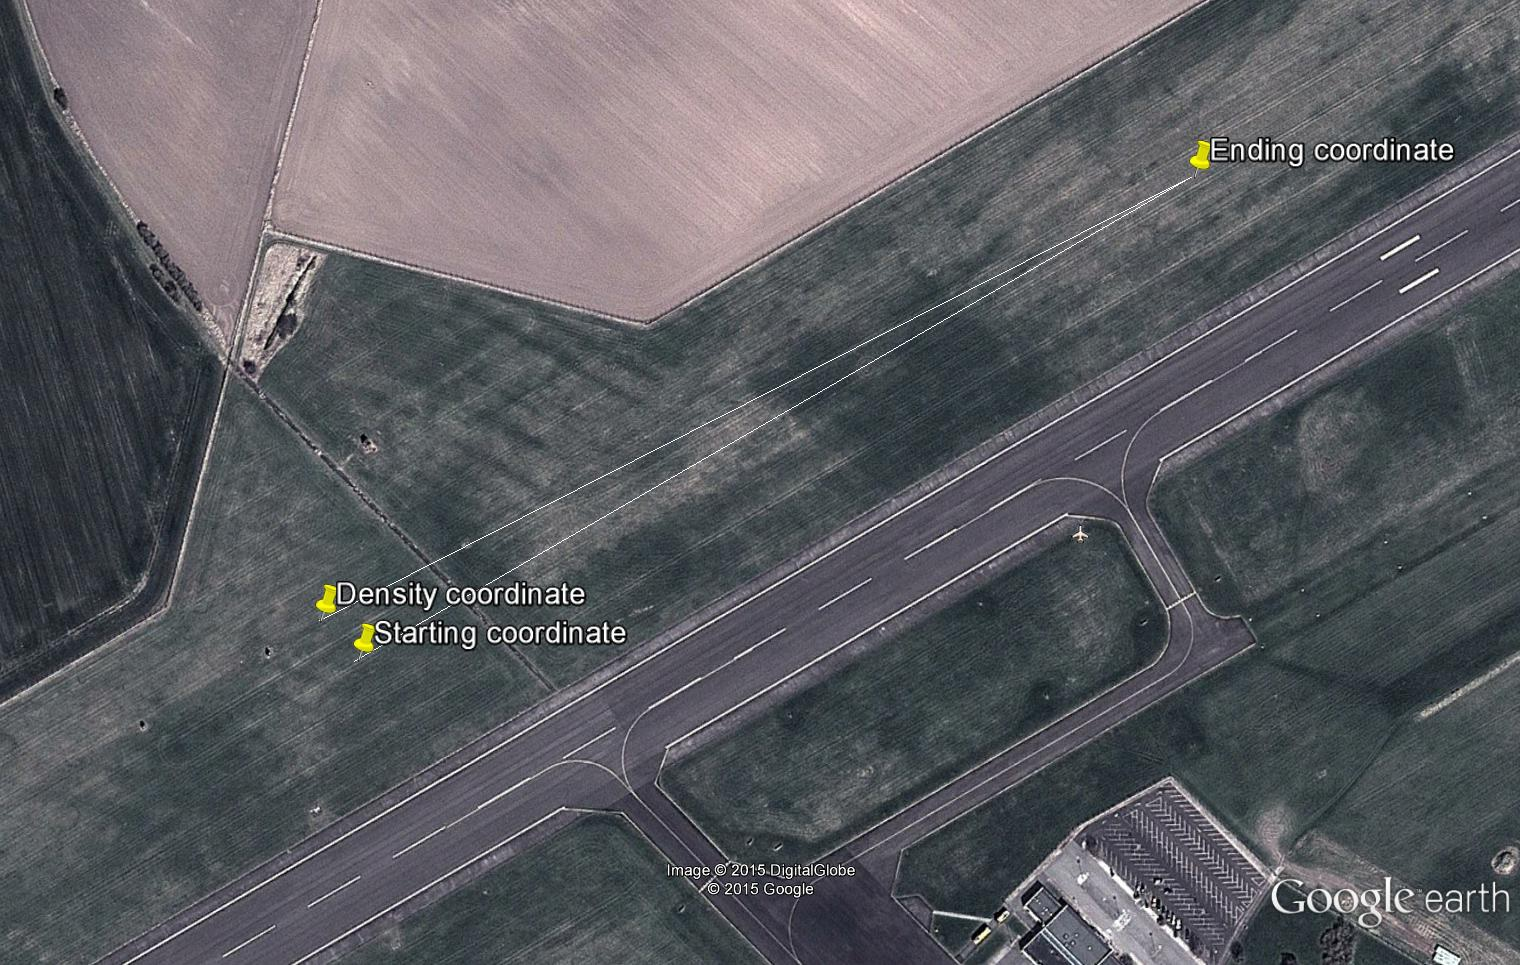
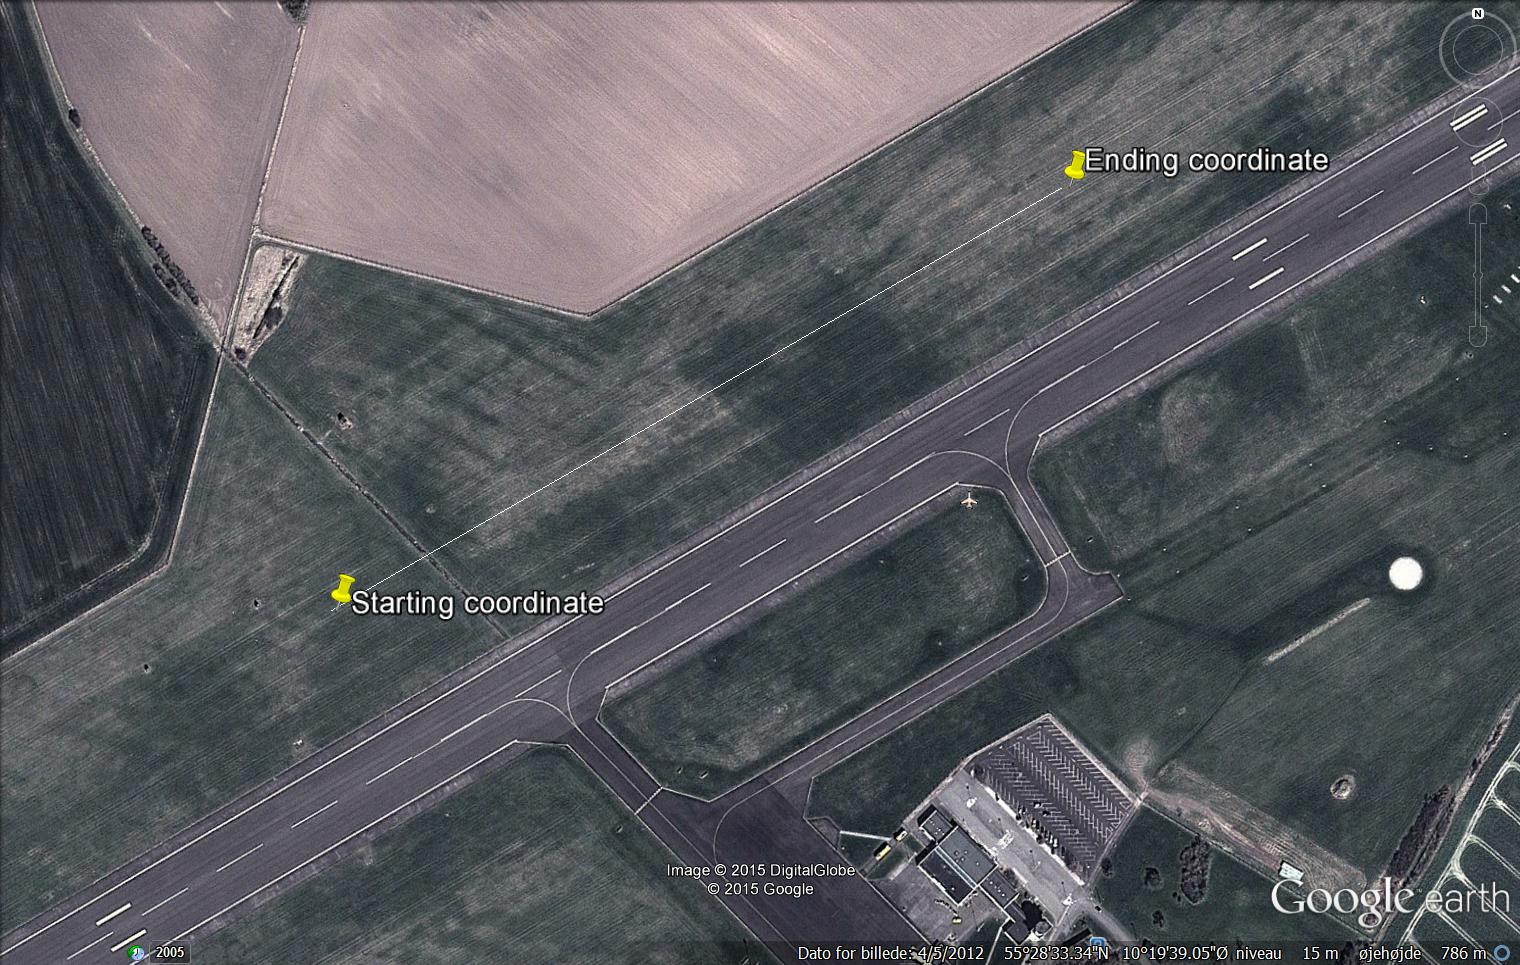
New section: Mavros waypoint file generation. Nice path generation! Much wow!

diff --git a/Drones.tex b/Drones.tex
@@ -258,6 +258,14 @@ waypoint.txt contains correct mavlink formatting.
 
 \end{itemize}
 
+The tests mentioned in previous section was with way points uploaded via mavros.\\
+Getting the basics of uploading way points and arming the drone to work with implemented rosrun
+functions was simple once the syntax was mastered. Implementing this into a joint program with a
+path generation algorithm would be trivial. This could result in an easy to use GUI application
+which took a simple coordinate as an input and an altitude and the autonomously flew the drone to
+search.\\
+
+\section{Mavros waypoint file generation}
 Mavros uses a Mavlink waypoint file format for uploading waypoints.
 This format is the same as the one used by the APMPlanner2 application,
 which is able to visualize the waypoints in a satellite image.
@@ -270,30 +278,25 @@ convert .kml files to waypoint files
 and to convert .csv files to waypoint files.
 The second application developed in C++ is named csv2wp, and converts .csv files containing
 latitudes, longitudes and altitudes to mavlink waypoint text files.
+Both C++ applications and the library were written in Qt Creator and are cross-platform compatible.
 
-The tests mentioned in previous section was with way points uploaded via mavros.\\
-Getting the basics of uploading way points and arming the drone to work with implemented rosrun
-functions was simple once the syntax was mastered. Implementing this into a joint program with a
-path generation algorithm would be trivial. This could result in an easy to use GUI application
-which took a simple coordinate as an input and an altitude and the autonomously flew the drone to
-search.\\
-The next section will describe how such a search pattern generator was developed and used, using the
-waypoint library described above.
+Google Earth's .kml file format is simple if the file contains only one path or polygon.
+It follows XML layout and under the <coordinates> header, all the coordinates are listed.
+The coordinates are listed in the following format: longitude latitude altitude.
+This makes the coordinate extraction process simple: Navigate the .kml file to the <coordinates> header and tokenize the coordinate string until reaching the end of the section (indicated by </coordinates>).
 
 \section{Generating search patterns}
 A search pattern generation script was developed in Matlab for use with the C++ waypoint library.
 The Matlab script, named zigzag, generates a "Zig Zag" flight pattern.
-The script takes four arguments: Three coordinates and a search angle.
+The script takes four arguments: Two coordinates, a density parameter and a search angle.
 The first coordinate is the flight starting coordinate. The second coordinate is the flight ending
 coordinate.
 The search angle describes how the search zone from starting coordinate to ending coordinate
-expands.
+expands in a conic manner.
 For example, a search angle of 0 would mean the flight path is straight from starting coordinate to
 ending coordinate.
-The third coordinate, named the density coordinate, is placed near the starting coordinate, and is
-used by the script to calculate the spacing
-between the back and forth zig zag flights. This means that if the third coordinate is placed very
-close to the starting coordinate,
+The density parameter indicates the spacing between the back and forth zig zag flights.
+A small density parameter will place the flights close to each other so that
 the flight path will be very long and go back and forth a lot of times before reaching the ending
 coordinate.
 An example of how the search path setup looks like in Google Earth is shown in figure
@@ -306,14 +309,35 @@ An example of how the search path setup looks like in Google Earth is shown in f
 \end{figure}
 The procedure to generate a search path starting with Google Earth is as follows:
 \begin{itemize}
-\item Generate a three-point path in Google Earth and export it as a .kml file.
+\item Generate a two-point path in Google Earth and export it as a .kml file.
 \item Convert the .kml file to mavlink waypoint text format using the waypointgen1 application.
 \item Run the zigzag Matlab script, giving the name of the newly generated text file as input, along
-with the search angle and the output .csv filename.
+with the search angle, density parameter and the output .csv filename.
 \item Convert the generated .csv file to mavlink waypoint text format using the csv2wp application.
 \end{itemize}
 
-Comparison figures here!
+The zigzag script works with 2D vectors in a cartesian coordinate system, assuming that both axes use the same scale. This means a UTM coordinate representation is necessary. For this, the script uses the utm2lonlat script, Copyright (c) 2013, Erwin N.
+After the conversion, two bounding vectors are created at \(\pm\) half the input angle.
+The zig-zag pattern is then created within the bounding vectors, from the starting coordinate to the ending coordinate. It was chosen to end the zig-zag pattern before getting further away than the ending coordinate.
+
+Examples of outputs of the zigzag script are shown in figure \ref{fig:apmpath}. The input path is the one shown in figure \ref{fig:googlepath}.
+The parameters for the zigzag script output of figure \ref{fig:apmpath1} are a 10 degree angle and a 10 m spacing betweem back-and-forth flights, while the parameters for figure \ref{fig:apmpath2} are a 30 degree angle and a 20 m density.
+\begin{figure}[ht]
+\centering
+  \begin{subfigure}[t]{0.45\textwidth}
+    \includegraphics[width = \textwidth]{Images/apmpath10}
+    \caption{10 degree angle and 10 m density.}
+    \label{fig:apmpath1}
+  \end{subfigure}
+  \begin{subfigure}[t]{0.45\textwidth}
+    \includegraphics[width = \textwidth]{Images/apmpath30}
+    \caption{30 degree angle and 20 m density.}
+    \label{fig:apmpath2}
+  \end{subfigure}  
+\caption[Zig-Zag pattern examples.]
+{Zig-Zag pattern examples. The pattern is generated from the path of figure \ref{fig:googlepath} using the zigzag script.}
+\label{fig:apmpath}
+\end{figure}
 
 
 \newpage
